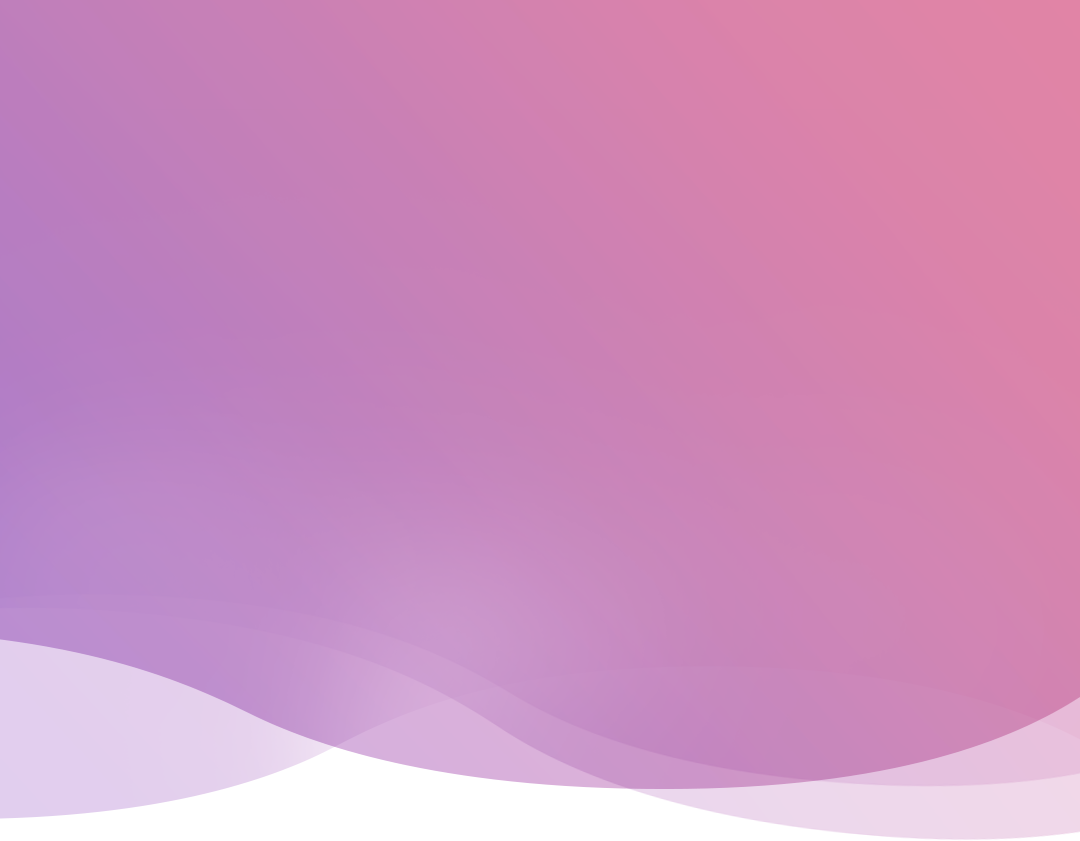
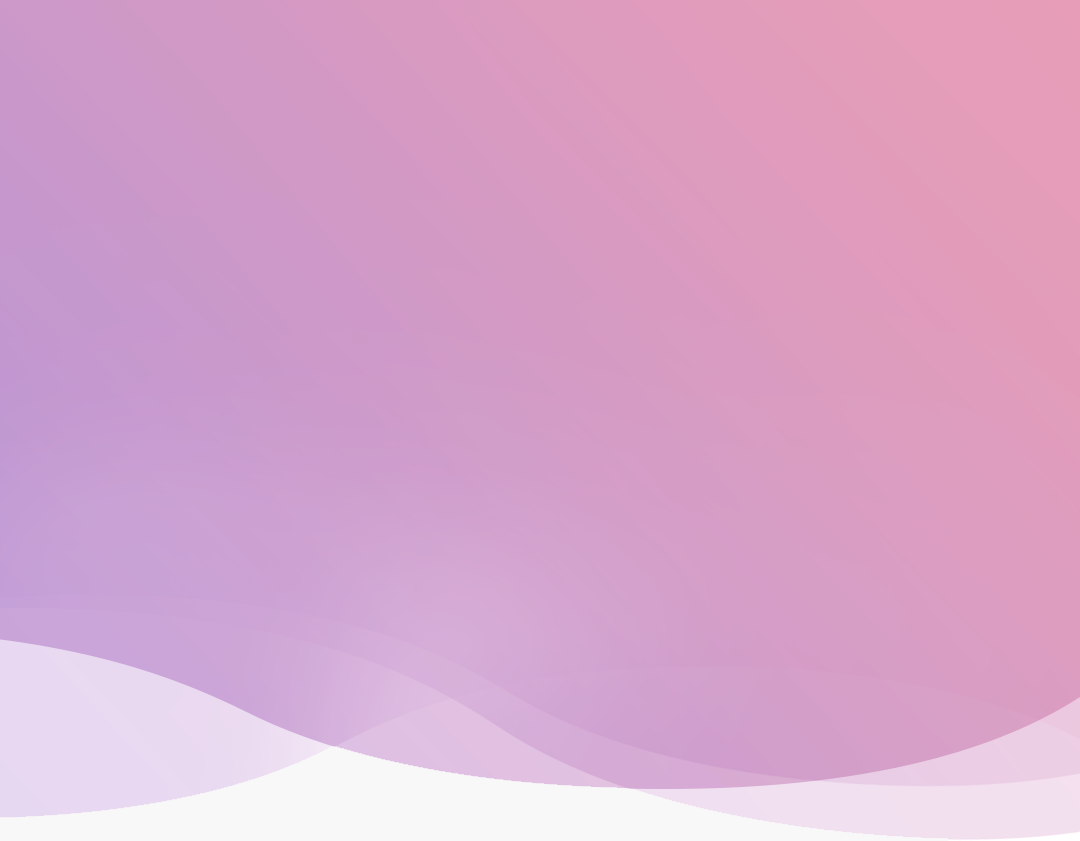
Add mask effect to profile background.

diff --git a/screens/Mypage/MyPageScreen.js b/screens/Mypage/MyPageScreen.js
@@ -225,13 +225,13 @@ export default class MyPageScreen extends React.Component {
             <View style={{ flex: 1, backgroundColor: Colors.color_f8f8f8, paddingBottom: MyConstants.TABBAR_TOP_BORDER_HEIGHT }}>
               {/* 사진, 텍스트 */}
               <View style={[MyStyles.profile_back, MyStyles.padding_h_main, { justifyContent: "center" }]}>
-                <Image source={require('../../assets/images/ic_profile_back.png')} style={MyStyles.background_image} />
                 {
                   global.login_info.profile_image != null ?
-                    <Image source={{ uri: Common.getImageUrl(global.login_info.profile_image) }} opacity={0.2} style={MyStyles.background_image} />
+                    <Image source={{ uri: Common.getImageUrl(global.login_info.profile_image) }} style={[MyStyles.background_image]} />
                     :
                     null
                 }
+                <Image source={require('../../assets/images/ic_profile_back.png')} style={MyStyles.background_image} />
 
                 <TouchableOpacity style={{ position: "absolute", padding: 15, top: 5, right: 0 }} onPress={() => {
                   this.props.navigation.navigate("EditProfile", { [MyConstants.NAVIGATION_PARAMS.onProfileEdited]: this.onProfileEdited })

diff --git a/App.js b/App.js
@@ -83,35 +83,12 @@ export default class App extends React.Component {
       } else if (this.state.isLogined == -1) {
         return (
           <View style={styles.container}>
-            {/* <StatusBar backgroundColor="white" barStyle="default" /> */}
             <AppNavigator />
           </View>
         );
       } else {
         return (
           <View style={styles.container}>
-
-            <StatusBar
-              backgroundColor="blue"
-              barStyle="light-content"
-            />
-            {/* <View style={styles.statusBar} /> */}
-            {/* <StatusBar style={[styles.statusBar]} backgroundColor="red" /> */}
-            {/* <StatusBar
-              backgroundColor="blue"
-              barStyle="light-content"
-            /> */}
-            {/* <View
-              style={{
-                backgroundColor: 'red',
-                height: Platform.OS === 'ios' ? 20 : StatusBar.currentHeight,
-              }}>
-              <StatusBar
-                translucent={false}
-                backgroundColor="white"
-                barStyle="light-content"
-              />
-            </View> */}
             <AppNavigator1 />
           </View>
         );
